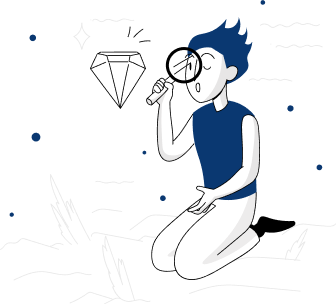
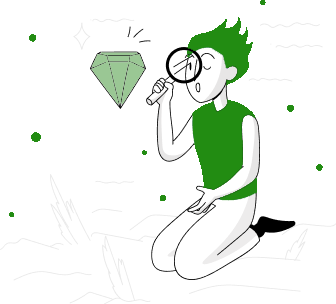
Frontend - Color personalizado

diff --git a/style.css b/style.css
@@ -1,6 +1,7 @@
 body{
     width: 1440px;
     height: 1050px;
+    background: #000000;
 
 }
 
@@ -27,11 +28,11 @@ textarea{
     font-style: normal;
     font-weight: 400;
     font-size: 32px;
-    color: #0A3871;
+    color: #228c12;
 }
 
 textarea::placeholder{
-    color: #0A3871;
+    color: #228c12;
 }
 
 p{
@@ -51,7 +52,7 @@ p{
     line-height: 150%;
 
 
-    color: #495057;
+    color: #ffffff;
 
 
 }
@@ -68,9 +69,9 @@ p{
 
     /* Dark blue/dark-blue-300 */
 
-    background: #0A3871;
+    background: #228c12;
     border-radius: 24px;
-    border: #0A3871;
+    border: #228c12;
     cursor: pointer;
 
     /* Fuente */
@@ -86,7 +87,7 @@ p{
 }
 
 .encrypt:hover{
-    background:#1e57a7;
+    background:#4b8e41;
     
 }
 
@@ -110,7 +111,7 @@ p{
     background: #D8DFE8;
     /* Dark blue/dark-blue-300 */
 
-    border: 1px solid #0A3871;
+    border: 1px solid #228c12;
     border-radius: 24px;
     cursor: pointer;
 
@@ -127,8 +128,9 @@ p{
 }
 
 .decrypt:hover{
-    background: #495057;
-    border: #495057;
+    background: rgb(92, 88, 88);
+    border: rgb(92, 88, 88);
+    color: #5f8f58;
 
 }
 
@@ -143,7 +145,7 @@ p{
     margin-top: 40px;
     /* White */
 
-    background: lightgray;
+    background: rgb(92, 88, 88);
     /* shadow */
 
     box-shadow: 0px 24px 32px -8px rgba(0, 0, 0, 0.08);
@@ -178,7 +180,7 @@ p{
 
     /* Gray/gray-500 */
 
-    color: #343A40;
+    color: #5f8f58;
 
 }
 
@@ -200,5 +202,5 @@ p{
 
     /* Gray/gray-400 */
 
-    color: #495057;
+    color: #ffffff;
 }
